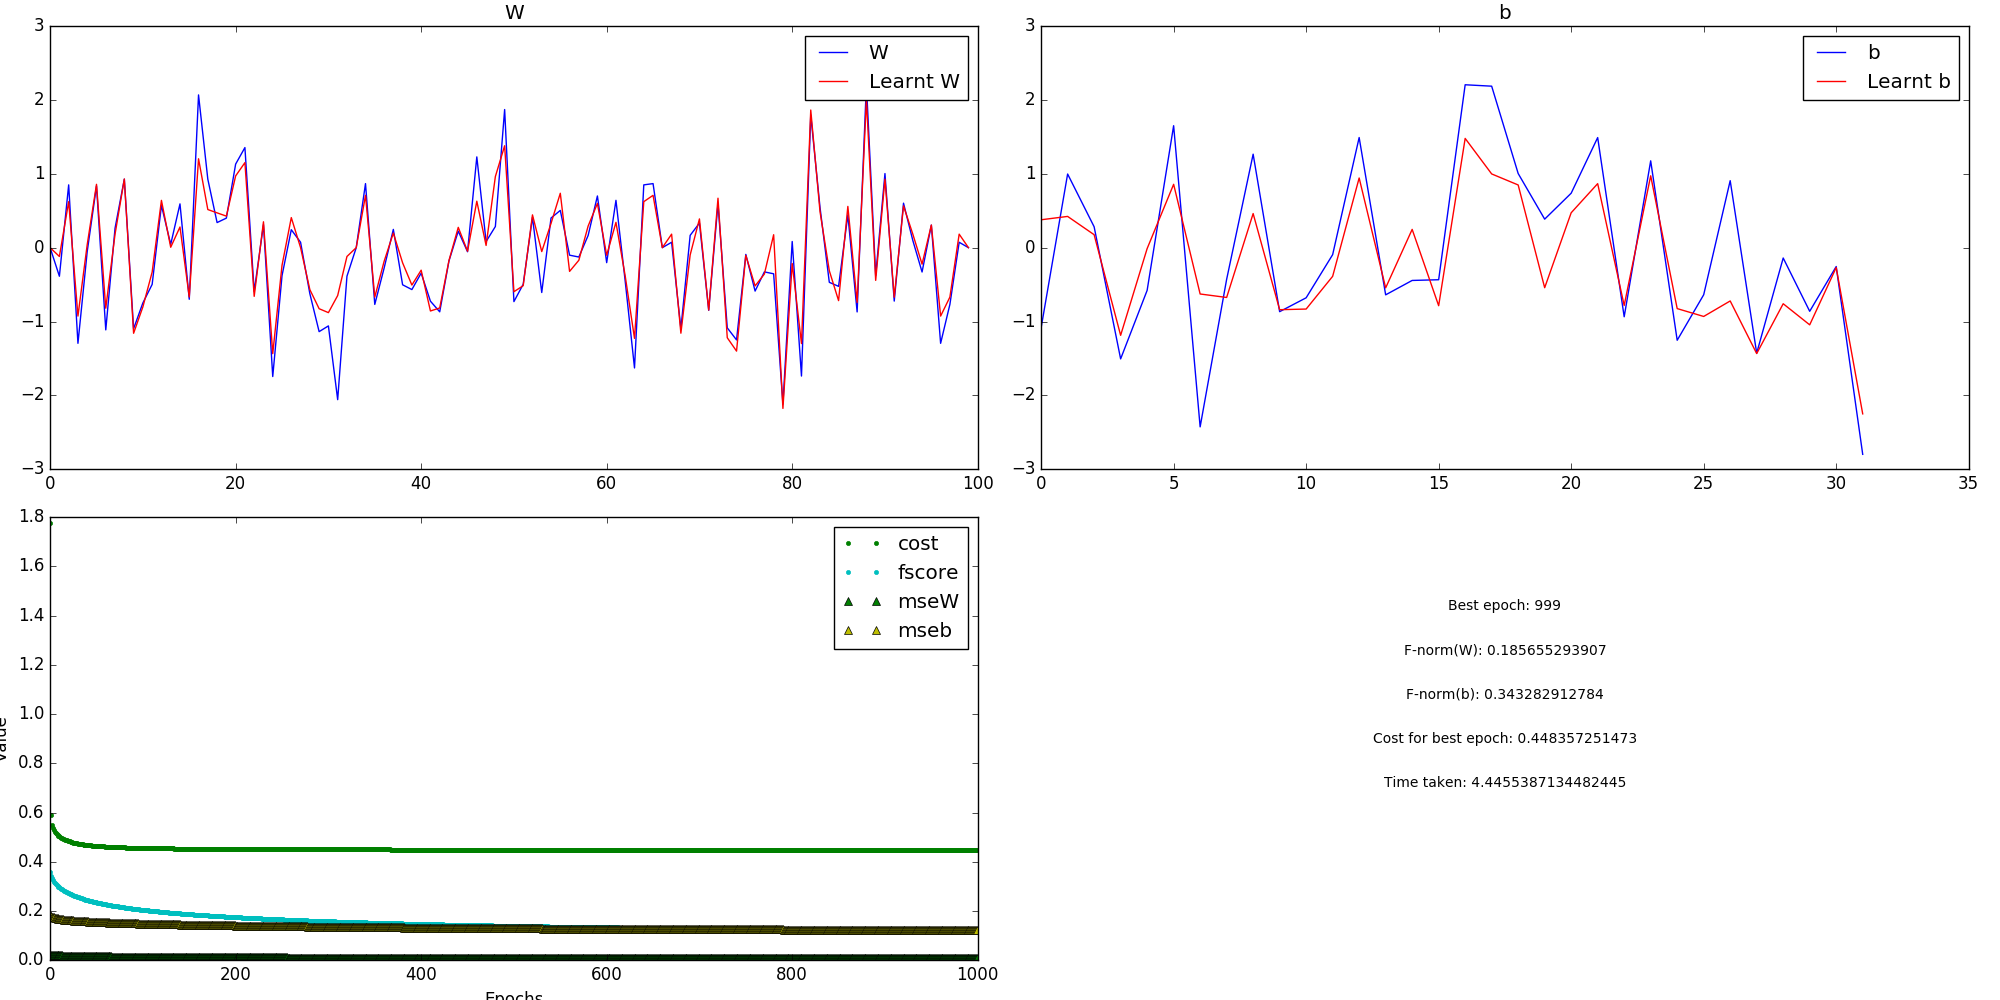
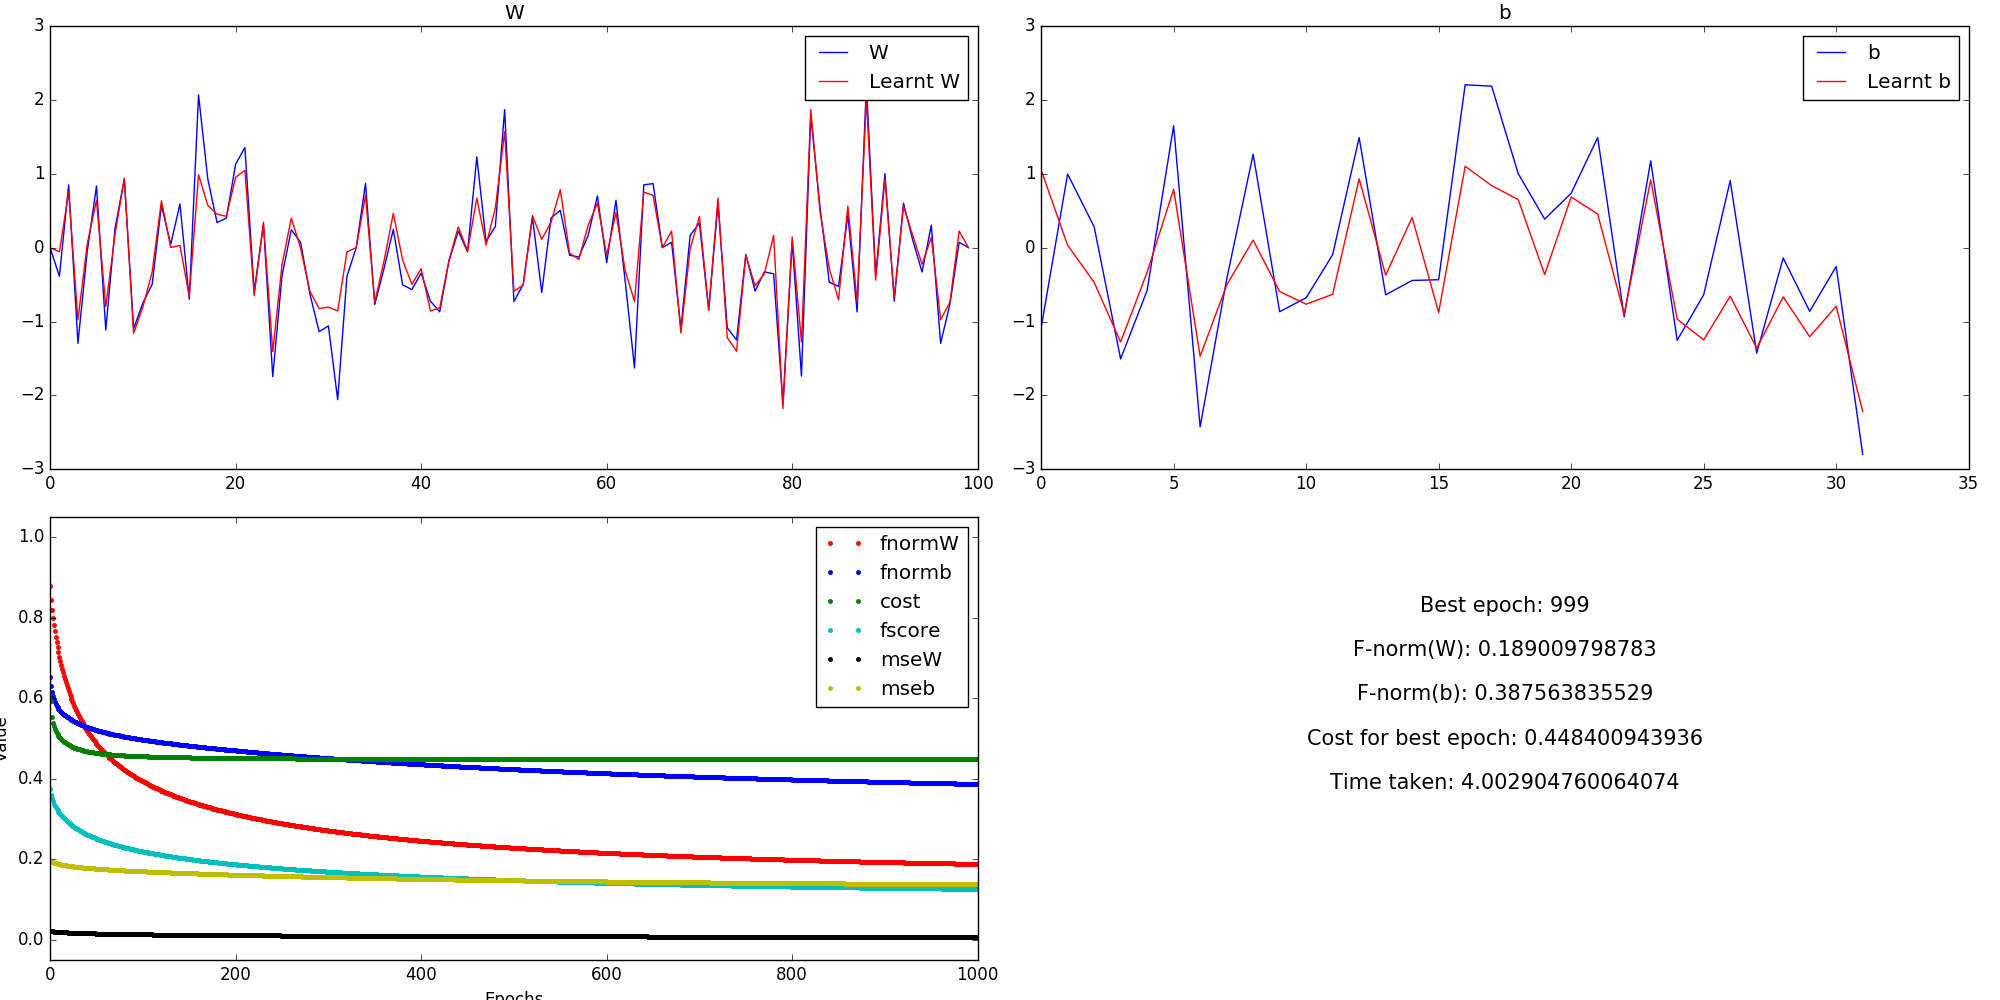
little changes, more changes after getting shaoweis reply

diff --git a/wild_mmpf.py b/wild_mmpf.py
@@ -262,7 +262,7 @@ def sgd(units = 16, learning_rate = 1e-2, epsilon = 1, n_epochs = 1000,\
     ax[0,1].legend(['b', 'Learnt b'])
     # ax[1].text(0.2, 0.1, 'F-norm(b): ' + str(fnormb), ha='center', va='center', transform = ax[1].transAxes, fontsize = 10)
 
-    ax[1,0].plot(fnormW_history, 'r.', fnormb_history, 'b.', cost_history, 'g.', f_history, 'c.', mseW_history, 'g.', mseb_history, 'y.')
+    ax[1,0].plot(fnormW_history, 'r.', fnormb_history, 'b.', cost_history, 'g.', f_history, 'c.', mseW_history, 'k.', mseb_history, 'y.')
     ax[1,0].legend(['fnormW', 'fnormb', 'cost', 'fscore', 'mseW', 'mseb'])
     # ax[1,0].plot(cost_history, 'g.', f_history, 'c.', mseW_history, 'g.', mseb_history, 'y.')
     # ax[1,0].legend(['cost', 'fscore', 'mseW', 'mseb'])
@@ -272,11 +272,11 @@ def sgd(units = 16, learning_rate = 1e-2, epsilon = 1, n_epochs = 1000,\
 
 
     ax[1,1].axis('off')
-    ax[1,1].text(0.5, 0.7, 'F-norm(W): ' + str(fnormW), ha='center', va='center', transform = ax[1,1].transAxes, fontsize = 10)
-    ax[1,1].text(0.5, 0.6, 'F-norm(b): ' + str(fnormb), ha='center', va='center', transform = ax[1,1].transAxes, fontsize = 10)
-    ax[1,1].text(0.5, 0.8, 'Best epoch: ' + str(best_epoch), ha='center', va='center', transform = ax[1,1].transAxes, fontsize = 10)
-    ax[1,1].text(0.5, 0.5, 'Cost for best epoch: ' + str(best_cost), ha='center', va='center', transform = ax[1,1].transAxes, fontsize = 10)
-    ax[1,1].text(0.5, 0.4, 'Time taken: ' + str(training_time/60.), ha='center',  va='center', transform = ax[1,1].transAxes, fontsize = 10)
+    ax[1,1].text(0.5, 0.7, 'F-norm(W): ' + str(fnormW), ha='center', va='center', transform = ax[1,1].transAxes, fontsize = 15)
+    ax[1,1].text(0.5, 0.6, 'F-norm(b): ' + str(fnormb), ha='center', va='center', transform = ax[1,1].transAxes, fontsize = 15)
+    ax[1,1].text(0.5, 0.8, 'Best epoch: ' + str(best_epoch), ha='center', va='center', transform = ax[1,1].transAxes, fontsize = 15)
+    ax[1,1].text(0.5, 0.5, 'Cost for best epoch: ' + str(best_cost), ha='center', va='center', transform = ax[1,1].transAxes, fontsize = 15)
+    ax[1,1].text(0.5, 0.4, 'Time taken: ' + str(training_time/60.), ha='center',  va='center', transform = ax[1,1].transAxes, fontsize = 15)
 
 
 
@@ -311,5 +311,5 @@ def sgd(units = 16, learning_rate = 1e-2, epsilon = 1, n_epochs = 1000,\
 
 
 if __name__ == "__main__":
-    sgd(units = 32, learning_rate = 1e-3, epsilon = 1, n_epochs = 10, batch_size = 16,\
+    sgd(units = 32, learning_rate = 1e-3, epsilon = 1, n_epochs = 1000, batch_size = 16,\
       sample = '32-50K.npy', gpu = False, flavour = 'vanilla')

diff --git a/mmpf.py b/mmpf.py
@@ -237,9 +237,9 @@ def sgd(units = 16, learning_rate = 1e-2, epsilon = 1, n_epochs = 1000,\
     ax[1,0].set_ylabel('Value')
 
     ax[1,1].axis('off')
-    ax[1,1].text(0.5, 0.7, 'F-norm(W): ' + str(fnormW), ha='center', va='center', transform = ax[1,1].transAxes, fontsize = 10)
-    ax[1,1].text(0.5, 0.6, 'F-norm(b): ' + str(fnormb), ha='center', va='center', transform = ax[1,1].transAxes, fontsize = 10)
-    ax[1,1].text(0.5, 0.5, 'Time taken: ' + str(training_time/60.), ha='center',  va='center', transform = ax[1,1].transAxes, fontsize = 10)
+    ax[1,1].text(0.5, 0.7, 'F-norm(W): ' + str(fnormW), ha='center', va='center', transform = ax[1,1].transAxes, fontsize = 15)
+    ax[1,1].text(0.5, 0.6, 'F-norm(b): ' + str(fnormb), ha='center', va='center', transform = ax[1,1].transAxes, fontsize = 15)
+    ax[1,1].text(0.5, 0.5, 'Time taken: ' + str(training_time/60.), ha='center',  va='center', transform = ax[1,1].transAxes, fontsize = 15)
 
 
     E = n_epochs // 1000
